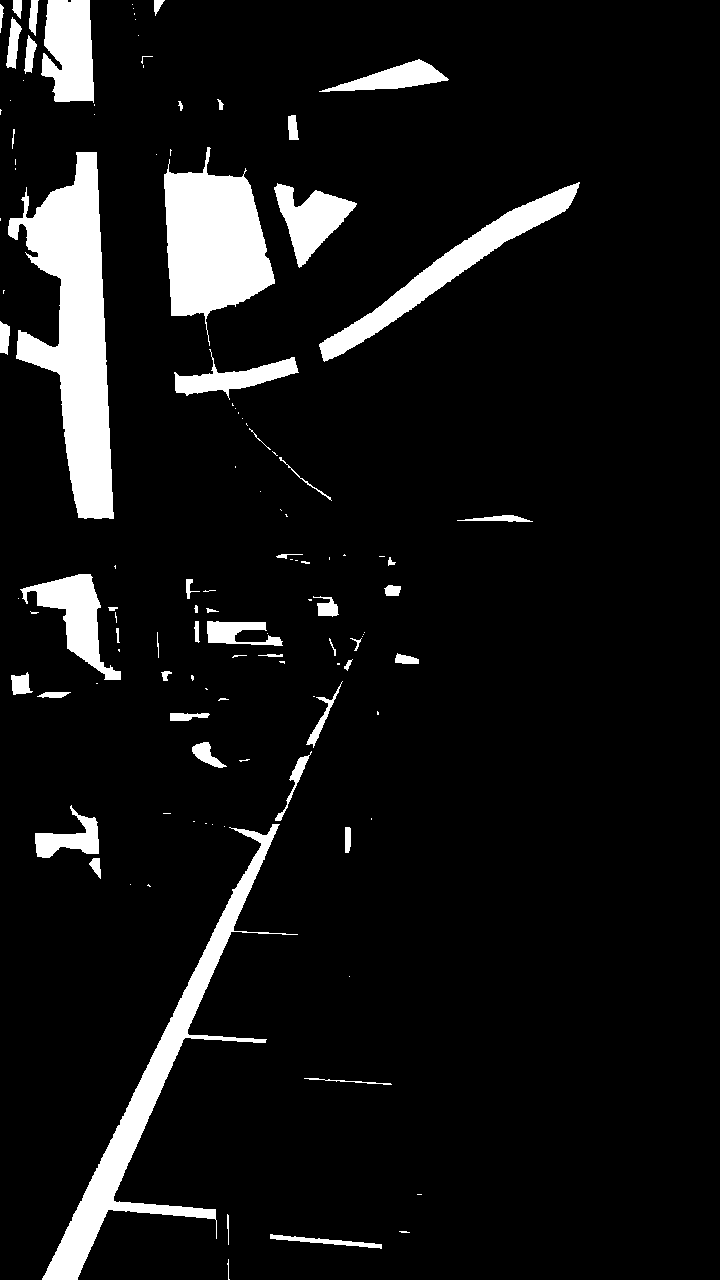
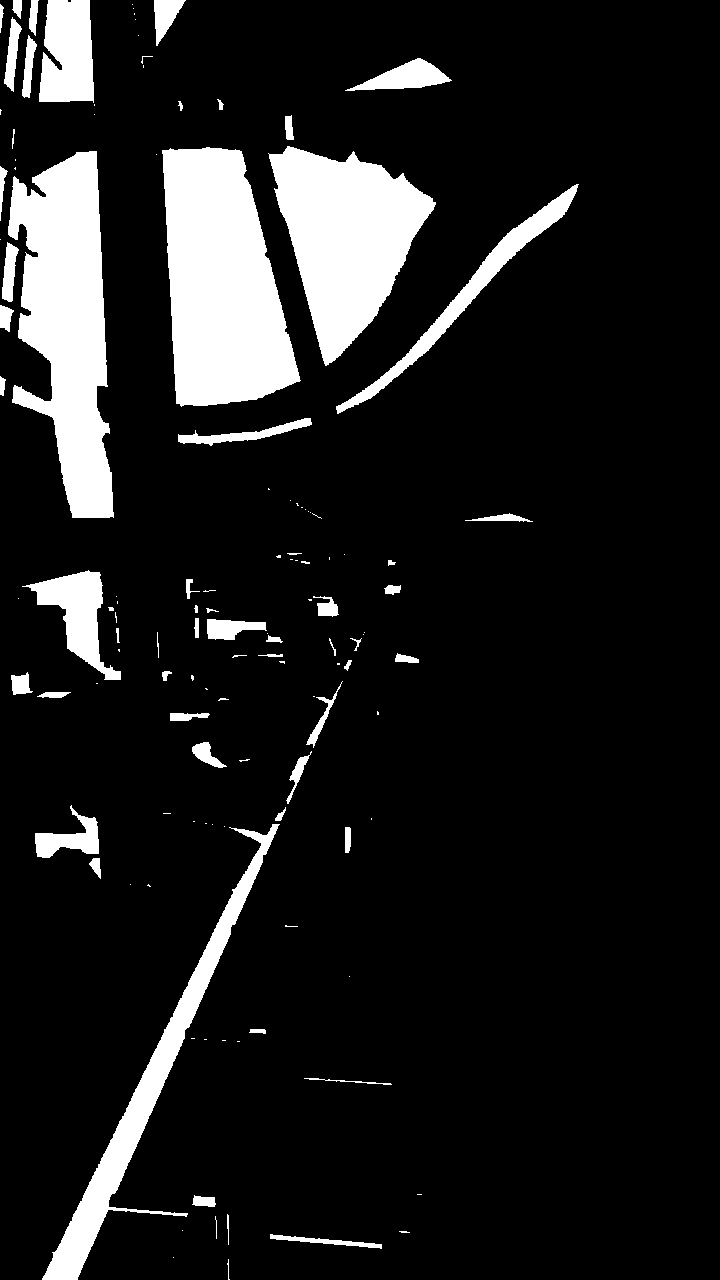
Film 19: style board v4 ship
Claude-Session: https://claude.ai/code/session_017iwyCuVqr4pVQferrZ24jv

diff --git a/film/v3/set3d19/styleboard/sb.py b/film/v3/set3d19/styleboard/sb.py
@@ -525,10 +525,10 @@ def ship_mats():
     M['deck1'] = mat('deck1', '#b48a50', '#a07a40', scale=3, aniso=(0.12, 1, 1), contrast=1.4)
     M['deck2'] = mat('deck2', '#a67c44', '#bc9255', scale=3, aniso=(0.12, 1, 1), contrast=1.4)
     M['seam'] = mat('seam', '#2c1c20')
-    M['hullb'] = mat('hullb', '#221e26', '#2e2830', scale=2, aniso=(0.3, 0.3, 1))
+    M['hullb'] = mat('hullb', '#2a2622', '#36302a', scale=2, aniso=(0.3, 0.3, 1))
     M['ochre'] = mat('ochre', '#cf9230', '#bd7f26', scale=3)
     M['bulw'] = mat('bulw', '#a24c2c', '#8f3f28', scale=3, aniso=(0.2, 1, 1))
-    M['cap'] = mat('cap', '#241e22', '#322a2c', scale=3)
+    M['cap'] = mat('cap', '#2a2622', '#3a342c', scale=3)
     M['iron'] = mat('iron', '#2a2622', '#38322c', scale=6, rough=0.6)
     M['carr'] = mat('carr', '#8a3e28', '#9c4a30', scale=4, aniso=(0.2, 1, 1))
     M['oak'] = mat('oak', '#8a5a2c', '#9e6a34', scale=5, aniso=(0.15, 1, 1))
@@ -633,7 +633,9 @@ def build_ship(P):
         y = Y0
         while y < 29.5:
             yc = y + 0.35; b = hw(yc); dy = hw(yc + 0.35) - hw(yc - 0.35)
-            if b > 0.2: mb.box(M['cap'], (s * (b - 0.02), yc, DECK + 1.14), (0.3, 0.74, 0.1), rz=math.atan2(-dy * s, 0.7))
+            if b > 0.2:
+                mb.box(M['cap'], (s * (b - 0.02), yc, DECK + 1.14), (0.3, 0.74, 0.1), rz=math.atan2(-dy * s, 0.7)); mb.box(M['cap'], (s * (b + 0.1), yc, DECK + 1.2), (0.06, 0.74, 0.06), rz=math.atan2(-dy * s, 0.7))
+                mb.box(M['seam'], (s * (b - 0.02), yc + 0.36, DECK + 1.195), (0.31, 0.02, 0.012), rz=math.atan2(-dy * s, 0.7))
             y += 0.7
     # ---- cannons (black iron on red-brown carriages), muzzles through the ports
     def cannon(side, y):
@@ -681,25 +683,29 @@ def build_ship(P):
                 b = Vector((s * (hw(my + 1.5) - 0.1) * (1 - t) + (mx + s * 0.4) * t, my + 1.5 - 0.6 * t, DECK + 1.15 + (top - DECK - 1.15) * t))
                 mb.rod(M['rig'], a, b, 0.028, 0.028, 4)
     mast(8.0, 40.0, [(14.4, 14.0, 0.17), (24.6, 10.4, 0.14), (31.4, 7.2, 0.1)],
-         [(-6.5, 6.5, 8.6, 14.2, 0.7, 1.7), (-4.7, 4.7, 15.0, 24.2, 0.8, 1.4), (-3.3, 3.3, 25.0, 31.0, 0.9, 1.0)])
+         [(-6.5, 6.5, 8.6, 14.2, 0.7, 2.5), (-4.7, 4.7, 15.0, 24.2, 0.8, 2.0), (-3.3, 3.3, 25.0, 31.0, 0.9, 1.5)])
     mast(28.0, 34.0, [(13.6, 12.0, 0.15), (21.4, 9.0, 0.12), (27.0, 6.2, 0.09)],
-         [(-5.6, 5.6, 8.6, 13.4, 0.7, 1.5), (-4.1, 4.1, 14.2, 21.0, 0.8, 1.2), (-2.9, 2.9, 21.8, 26.6, 0.9, 0.9)])
+         [(-5.6, 5.6, 8.6, 13.4, 0.7, 2.2), (-4.1, 4.1, 14.2, 21.0, 0.8, 1.8), (-2.9, 2.9, 21.8, 26.6, 0.9, 1.3)])
     tube(mb, M['rig'], (0, 8.0, 40.0), (0, 28.0, 34.0), 0.05, 0.05, 4); tube(mb, M['rig'], (0, 28.0, 34.0), (0, 60.0, 14.2), 0.05, 0.05, 4); tube(mb, M['rig'], (0, 8.0, 31.0), (0, 28.0, 27.0), 0.04, 0.04, 4)
     tube(mb, M['rig'], (0.2, 7.5, 28.0), (0.2, -4.0, DECK + 1.3), 0.05, 0.05, 4)
     tube(mb, M['mast'], (0, 44.0, 9.4), (0, 62.0, 14.5), 0.2, 0.1, 10)
     sail_tri(mb, M, (0, 60.5, 13.6), (0, 51.0, 11.8), (0, 55.5, 22.0), 1.1); sail_tri(mb, M, (0, 55.0, 12.8), (0, 48.6, 11.0), (0, 50.0, 22.0), 1.0)
     mb.quad(M['red'], [(0.0, 8.0, 40.1), (0.0, 8.0, 39.3), (-0.2, 3.5, 39.2), (-0.2, 3.5, 40.0)]); mb.quad(M['red'], [(-0.2, 3.5, 40.0), (-0.2, 3.5, 39.2), (0.0, 8.0, 39.3), (0.0, 8.0, 40.1)])
     mb.finish()
-    # ---- bow wave: curling white sheets + spray at the stem, wash along the outboard hull
+    # ---- bow wave: a curling white roll pushed away from the stem with a turquoise underside, long thin rolls peeling back along the hull
     sp = MB('spray'); rr2 = rnd(8)
+    tq = mat('turq', '#2fa9a4', '#46bdb0', scale=2)
     for side in (-1, 1):
-        for k in range(26):
-            yy = STEM - 0.2 - k * 0.7; b = hw(yy) + 0.95 + 0.25 * k ** 0.5
-            hgt = max(0.12, 0.85 - 0.032 * k); sp.ell(M['spray'], (side * (b + rr2.uniform(-0.1, 0.1)), yy, 0.1 + hgt * 0.5), (0.45 + 0.012 * k, 0.55 + 0.02 * k, hgt), (10, 6))
-    for k in range(34):
-        a = rr2.uniform(0, 6.28); r_ = rr2.uniform(0, 1.8)
-        sp.ell(M['spray'], (rr2.uniform(-1.4, 1.4), STEM + 0.6 + r_ * 0.8, rr2.uniform(0.3, 1.8)), (0.11, 0.11, 0.13), (6, 4))
-    sp.ell(M['spray'], (0, STEM + 0.4, 0.5), (1.1, 1.3, 0.7), (12, 8)); sp.finish(shadow=False)
+        for k in range(22):
+            yy = STEM - 0.3 - k * 0.75; b = hw(yy) + 1.0 + 0.22 * k ** 0.6
+            hgt = max(0.18, 1.7 - 0.07 * k); yaw = -side * math.atan2(hw(yy + 0.4) - hw(yy - 0.4), 0.8) * -1.0
+            sp.ell(tq, (side * (b + 0.35 + 0.02 * k), yy, 0.15 + hgt * 0.22), (0.5 + 0.02 * k, 0.8, hgt * 0.42), (12, 6), rot=(0, 0, yaw))           # turquoise underside / face
+            sp.ell(M['spray'], (side * (b - 0.05), yy, 0.2 + hgt * 0.62), (0.42 + 0.015 * k, 0.78, hgt * 0.4), (12, 6), rot=(0, 0, yaw))                # white curling roll on top
+            if k % 2 == 0: sp.ell(M['spray'], (side * (b - 0.35), yy + 0.2, 0.25 + hgt * 0.95), (0.3, 0.5, hgt * 0.22), (10, 6), rot=(0, 0, yaw))       # the lip
+    for k in range(9):                                                                  # crescent of white across the stem
+        a = math.pi * (k / 8.0); sp.ell(M['spray'], (1.7 * math.cos(a), STEM + 0.6 + 1.2 * math.sin(a), 0.5 + 0.5 * math.sin(a)), (0.6, 0.6, 0.55 + 0.35 * math.sin(a)), (10, 6))
+    for k in range(30): sp.ell(M['spray'], (rr2.uniform(-1.6, 1.6), STEM + 0.8 + rr2.uniform(0, 2.0), rr2.uniform(0.7, 2.4)), (0.12, 0.12, 0.14), (6, 4))
+    sp.finish(shadow=False)
     # ---- far dressing
     ib = MB('isle'); n = 48; X0i = 780
     for i in range(n):
@@ -741,13 +747,18 @@ def build_sea(P):
     h *= np.clip(1 - t / 3500.0, 0, 1) ** 0.5
     # foam attribute: wash along the outboard hull, bow foam (broken up by the shader noise)
     hh_ = hw(np.clip(py, -12, STEM)); d_hull = np.abs(px) - (hh_ + 0.95); d_hull = np.where((py > -12) & (py < STEM + 1), d_hull, 9)
-    along = np.clip((py + 12.0) / 58.0, 0, 1)
-    wash = np.exp(-np.maximum(d_hull, 0) / 1.3) * (d_hull < 4.5) * (0.35 + 0.65 * along)
-    dback = np.maximum(STEM - py, 0.0); arm = np.zeros_like(px)
-    for off in (2.0, 4.4, 7.0):
-        dd = np.abs(np.abs(px) - (hh_ + 0.95 + off * (0.3 + 0.5 * np.clip(dback / 30.0, 0, 1)))); arm = np.maximum(arm, np.clip(1 - dd / (0.5 + 0.1 * off), 0, 1) * np.clip(1 - dback / (24.0 + 8 * off), 0, 1) * (py < STEM + 4))
-    bow = np.exp(-(((px - 0.0) / 3.2) ** 2 + ((py - (STEM + 2.0)) / 4.2) ** 2))
-    foam = np.nan_to_num(np.clip(np.maximum.reduce([wash * 0.75, arm * 0.55, bow * 0.9]), 0, 1))
+    dh = np.maximum(d_hull, 0.0); dback = np.maximum(STEM - py, 0.0)
+    lace = 0.5 + 0.5 * np.sin(py * 1.7 + 2.3 * np.sin(dh * 2.1 + py * 0.3))
+    inhull = (py > -12) & (py < STEM + 1.0)
+    bands = np.zeros_like(px)
+    for (off, w, amp, flen) in ((0.4, 0.9, 1.0, 80.0), (3.3, 1.0, 0.85, 60.0), (6.6, 1.15, 0.7, 44.0)):
+        wd = w * (0.65 + 0.7 * lace)
+        bnd = np.clip(1 - np.abs(dh - off - 0.3 * np.sin(py * 0.3 + off)) / wd, 0, 1)
+        bnd = bnd * bnd * (3 - 2 * bnd) * amp * np.clip(1.05 - dback / flen, 0, 1)
+        bands = np.maximum(bands, bnd)
+    bands *= inhull
+    bow = np.exp(-(((px - 0.0) / 3.2) ** 2 + ((py - (STEM + 2.0)) / 4.2) ** 2)) * 0.9
+    foam = np.nan_to_num(np.clip(np.maximum(bands * 0.95, bow), 0, 1))
     verts = np.stack([px, py, h], -1).reshape(-1, 3).astype(np.float32)
     idx = np.arange(NU * NV).reshape(NV, NU)
     a_ = idx[:-1, :-1]; b_ = idx[:-1, 1:]; c_ = idx[1:, 1:]; d_ = idx[1:, :-1]
@@ -780,14 +791,16 @@ def build_sea(P):
     wc = N('ShaderNodeMath'); wc.operation = 'MULTIPLY'; wc.use_clamp = True; L(cr.outputs['Result'], wc.inputs[0]); L(sp2.outputs['Result'], wc.inputs[1])
     col = mixc(col, hexc('#e4eeec'), wc.outputs[0])
     fa = N('ShaderNodeAttribute'); fa.attribute_type = 'GEOMETRY'; fa.attribute_name = 'foam'
-    nz2 = N('ShaderNodeTexNoise'); nz2.inputs['Scale'].default_value = 1.6; nz2.inputs['Detail'].default_value = 1.0; mp2 = N('ShaderNodeMapping'); mp2.inputs['Scale'].default_value = (1.8, 0.22, 1.0); L(tcw.outputs['Object'], mp2.inputs['Vector']); L(mp2.outputs[0], nz2.inputs['Vector'])
-    br = N('ShaderNodeMapRange'); br.inputs['From Min'].default_value = 0.35; br.inputs['From Max'].default_value = 0.7; L(nz2.outputs['Fac'], br.inputs['Value'])
+    nz2 = N('ShaderNodeTexNoise'); nz2.inputs['Scale'].default_value = 1.6; nz2.inputs['Detail'].default_value = 1.0; mp2 = N('ShaderNodeMapping'); mp2.inputs['Scale'].default_value = (2.4, 2.4, 1.0); L(tcw.outputs['Object'], mp2.inputs['Vector']); L(mp2.outputs[0], nz2.inputs['Vector'])
+    br = N('ShaderNodeMapRange'); br.inputs['From Min'].default_value = -2.0; br.inputs['From Max'].default_value = -1.0; L(nz2.outputs['Fac'], br.inputs['Value'])
     fm = N('ShaderNodeMath'); fm.operation = 'MULTIPLY'; fm.use_clamp = True; L(fa.outputs['Fac'], fm.inputs[0]); L(br.outputs['Result'], fm.inputs[1])
-    fm2 = N('ShaderNodeMath'); fm2.operation = 'MULTIPLY'; fm2.use_clamp = True; fm2.inputs[1].default_value = 1.4; L(fm.outputs[0], fm2.inputs[0])
+    fm2 = N('ShaderNodeMath'); fm2.operation = 'MULTIPLY'; fm2.use_clamp = True; fm2.inputs[1].default_value = 1.25; L(fm.outputs[0], fm2.inputs[0])
     col = mixc(col, hexc('#f0f6f2'), fm2.outputs[0])
     L(col, bs.inputs['Base Color'])
     lw = N('ShaderNodeLayerWeight'); lw.inputs['Blend'].default_value = 0.3
-    em = N('ShaderNodeMath'); em.operation = 'MULTIPLY'; em.inputs[1].default_value = P.get('fresnel_k', 0.7); L(lw.outputs['Fresnel'], em.inputs[0])
+    mrn = N('ShaderNodeMapRange'); mrn.inputs['From Min'].default_value = 20.0; mrn.inputs['From Max'].default_value = 120.0; mrn.inputs['To Min'].default_value = 0.12; mrn.inputs['To Max'].default_value = 1.0; L(cd.outputs['View Distance'], mrn.inputs['Value'])
+    fk = N('ShaderNodeMath'); fk.operation = 'MULTIPLY'; fk.inputs[1].default_value = P.get('fresnel_k', 0.7); L(mrn.outputs['Result'], fk.inputs[0])
+    em = N('ShaderNodeMath'); em.operation = 'MULTIPLY'; L(lw.outputs['Fresnel'], em.inputs[0]); L(fk.outputs[0], em.inputs[1])
     bs.inputs['Emission Color'].default_value = hexc('#9fc2d8'); L(em.outputs[0], bs.inputs['Emission Strength'])
     nzb = N('ShaderNodeTexNoise'); nzb.inputs['Scale'].default_value = 1.8; nzb.inputs['Detail'].default_value = 0.0; L(tcw.outputs['Object'], nzb.inputs['Vector'])
     bp = N('ShaderNodeBump'); bp.inputs['Strength'].default_value = 0.2; bp.inputs['Distance'].default_value = 0.2; L(nzb.outputs['Fac'], bp.inputs['Height']); L(bp.outputs['Normal'], bs.inputs['Normal'])
@@ -799,10 +812,10 @@ def build_sea(P):
     o.visible_diffuse = False; o.light_linking.receiver_collection = coll
 
 PRESETS['ship'] = dict(
-    sky=[(0.0, '#6c9ce0'), (0.46, '#a9c6e6'), (0.5, '#9dbfe6'), (0.58, '#7ea8e2'), (0.78, '#5b88d6'), (1.0, '#4a78cd')], sky_k=1.0,
+    sky=[(0.0, '#6c9ce0'), (0.46, '#a9c6e6'), (0.5, '#a4c4e6'), (0.58, '#7ea8e2'), (0.78, '#4f7ed0'), (1.0, '#3a64be')], sky_k=1.0,
     key=(1.0, 0.92, 0.78, 6.5), key_dir=kdir(140, 48), sun_angle=0.9, exposure=0.1, sat=1.08, amb=('#3050FF', 1.7), samples=80, dbounce=1, gloss=2,
     cloud=('#ffffff', '#8c9ce8'), cloud_diffuse=True, cloud_z=(70, 170), ncloud=8, cloud_seed=4, cloud_scale=0.8,
-    sea_near='#16707c', sea_far='#0a2c4c', fresnel_k=0.7,
+    sea_near='#115f6e', sea_far='#0a2c4c', fresnel_k=0.7,
     glit_az=6, glit_el=11, glit_k=30.0,
     cam=dict(loc=(4.4, -4.0, 9.2), look=(4.4 - 3.6, -4.0 + 39.8, 9.2 - 7.9), lens=22))
 

diff --git a/film/v3/set3d19/styleboard/part_ship.py b/film/v3/set3d19/styleboard/part_ship.py
@@ -12,10 +12,10 @@ def ship_mats():
     M['deck1'] = mat('deck1', '#b48a50', '#a07a40', scale=3, aniso=(0.12, 1, 1), contrast=1.4)
     M['deck2'] = mat('deck2', '#a67c44', '#bc9255', scale=3, aniso=(0.12, 1, 1), contrast=1.4)
     M['seam'] = mat('seam', '#2c1c20')
-    M['hullb'] = mat('hullb', '#221e26', '#2e2830', scale=2, aniso=(0.3, 0.3, 1))
+    M['hullb'] = mat('hullb', '#2a2622', '#36302a', scale=2, aniso=(0.3, 0.3, 1))
     M['ochre'] = mat('ochre', '#cf9230', '#bd7f26', scale=3)
     M['bulw'] = mat('bulw', '#a24c2c', '#8f3f28', scale=3, aniso=(0.2, 1, 1))
-    M['cap'] = mat('cap', '#241e22', '#322a2c', scale=3)
+    M['cap'] = mat('cap', '#2a2622', '#3a342c', scale=3)
     M['iron'] = mat('iron', '#2a2622', '#38322c', scale=6, rough=0.6)
     M['carr'] = mat('carr', '#8a3e28', '#9c4a30', scale=4, aniso=(0.2, 1, 1))
     M['oak'] = mat('oak', '#8a5a2c', '#9e6a34', scale=5, aniso=(0.15, 1, 1))
@@ -120,7 +120,9 @@ def build_ship(P):
         y = Y0
         while y < 29.5:
             yc = y + 0.35; b = hw(yc); dy = hw(yc + 0.35) - hw(yc - 0.35)
-            if b > 0.2: mb.box(M['cap'], (s * (b - 0.02), yc, DECK + 1.14), (0.3, 0.74, 0.1), rz=math.atan2(-dy * s, 0.7))
+            if b > 0.2:
+                mb.box(M['cap'], (s * (b - 0.02), yc, DECK + 1.14), (0.3, 0.74, 0.1), rz=math.atan2(-dy * s, 0.7)); mb.box(M['cap'], (s * (b + 0.1), yc, DECK + 1.2), (0.06, 0.74, 0.06), rz=math.atan2(-dy * s, 0.7))
+                mb.box(M['seam'], (s * (b - 0.02), yc + 0.36, DECK + 1.195), (0.31, 0.02, 0.012), rz=math.atan2(-dy * s, 0.7))
             y += 0.7
     # ---- cannons (black iron on red-brown carriages), muzzles through the ports
     def cannon(side, y):
@@ -168,25 +170,29 @@ def build_ship(P):
                 b = Vector((s * (hw(my + 1.5) - 0.1) * (1 - t) + (mx + s * 0.4) * t, my + 1.5 - 0.6 * t, DECK + 1.15 + (top - DECK - 1.15) * t))
                 mb.rod(M['rig'], a, b, 0.028, 0.028, 4)
     mast(8.0, 40.0, [(14.4, 14.0, 0.17), (24.6, 10.4, 0.14), (31.4, 7.2, 0.1)],
-         [(-6.5, 6.5, 8.6, 14.2, 0.7, 1.7), (-4.7, 4.7, 15.0, 24.2, 0.8, 1.4), (-3.3, 3.3, 25.0, 31.0, 0.9, 1.0)])
+         [(-6.5, 6.5, 8.6, 14.2, 0.7, 2.5), (-4.7, 4.7, 15.0, 24.2, 0.8, 2.0), (-3.3, 3.3, 25.0, 31.0, 0.9, 1.5)])
     mast(28.0, 34.0, [(13.6, 12.0, 0.15), (21.4, 9.0, 0.12), (27.0, 6.2, 0.09)],
-         [(-5.6, 5.6, 8.6, 13.4, 0.7, 1.5), (-4.1, 4.1, 14.2, 21.0, 0.8, 1.2), (-2.9, 2.9, 21.8, 26.6, 0.9, 0.9)])
+         [(-5.6, 5.6, 8.6, 13.4, 0.7, 2.2), (-4.1, 4.1, 14.2, 21.0, 0.8, 1.8), (-2.9, 2.9, 21.8, 26.6, 0.9, 1.3)])
     tube(mb, M['rig'], (0, 8.0, 40.0), (0, 28.0, 34.0), 0.05, 0.05, 4); tube(mb, M['rig'], (0, 28.0, 34.0), (0, 60.0, 14.2), 0.05, 0.05, 4); tube(mb, M['rig'], (0, 8.0, 31.0), (0, 28.0, 27.0), 0.04, 0.04, 4)
     tube(mb, M['rig'], (0.2, 7.5, 28.0), (0.2, -4.0, DECK + 1.3), 0.05, 0.05, 4)
     tube(mb, M['mast'], (0, 44.0, 9.4), (0, 62.0, 14.5), 0.2, 0.1, 10)
     sail_tri(mb, M, (0, 60.5, 13.6), (0, 51.0, 11.8), (0, 55.5, 22.0), 1.1); sail_tri(mb, M, (0, 55.0, 12.8), (0, 48.6, 11.0), (0, 50.0, 22.0), 1.0)
     mb.quad(M['red'], [(0.0, 8.0, 40.1), (0.0, 8.0, 39.3), (-0.2, 3.5, 39.2), (-0.2, 3.5, 40.0)]); mb.quad(M['red'], [(-0.2, 3.5, 40.0), (-0.2, 3.5, 39.2), (0.0, 8.0, 39.3), (0.0, 8.0, 40.1)])
     mb.finish()
-    # ---- bow wave: curling white sheets + spray at the stem, wash along the outboard hull
+    # ---- bow wave: a curling white roll pushed away from the stem with a turquoise underside, long thin rolls peeling back along the hull
     sp = MB('spray'); rr2 = rnd(8)
+    tq = mat('turq', '#2fa9a4', '#46bdb0', scale=2)
     for side in (-1, 1):
-        for k in range(26):
-            yy = STEM - 0.2 - k * 0.7; b = hw(yy) + 0.95 + 0.25 * k ** 0.5
-            hgt = max(0.12, 0.85 - 0.032 * k); sp.ell(M['spray'], (side * (b + rr2.uniform(-0.1, 0.1)), yy, 0.1 + hgt * 0.5), (0.45 + 0.012 * k, 0.55 + 0.02 * k, hgt), (10, 6))
-    for k in range(34):
-        a = rr2.uniform(0, 6.28); r_ = rr2.uniform(0, 1.8)
-        sp.ell(M['spray'], (rr2.uniform(-1.4, 1.4), STEM + 0.6 + r_ * 0.8, rr2.uniform(0.3, 1.8)), (0.11, 0.11, 0.13), (6, 4))
-    sp.ell(M['spray'], (0, STEM + 0.4, 0.5), (1.1, 1.3, 0.7), (12, 8)); sp.finish(shadow=False)
+        for k in range(22):
+            yy = STEM - 0.3 - k * 0.75; b = hw(yy) + 1.0 + 0.22 * k ** 0.6
+            hgt = max(0.18, 1.7 - 0.07 * k); yaw = -side * math.atan2(hw(yy + 0.4) - hw(yy - 0.4), 0.8) * -1.0
+            sp.ell(tq, (side * (b + 0.35 + 0.02 * k), yy, 0.15 + hgt * 0.22), (0.5 + 0.02 * k, 0.8, hgt * 0.42), (12, 6), rot=(0, 0, yaw))           # turquoise underside / face
+            sp.ell(M['spray'], (side * (b - 0.05), yy, 0.2 + hgt * 0.62), (0.42 + 0.015 * k, 0.78, hgt * 0.4), (12, 6), rot=(0, 0, yaw))                # white curling roll on top
+            if k % 2 == 0: sp.ell(M['spray'], (side * (b - 0.35), yy + 0.2, 0.25 + hgt * 0.95), (0.3, 0.5, hgt * 0.22), (10, 6), rot=(0, 0, yaw))       # the lip
+    for k in range(9):                                                                  # crescent of white across the stem
+        a = math.pi * (k / 8.0); sp.ell(M['spray'], (1.7 * math.cos(a), STEM + 0.6 + 1.2 * math.sin(a), 0.5 + 0.5 * math.sin(a)), (0.6, 0.6, 0.55 + 0.35 * math.sin(a)), (10, 6))
+    for k in range(30): sp.ell(M['spray'], (rr2.uniform(-1.6, 1.6), STEM + 0.8 + rr2.uniform(0, 2.0), rr2.uniform(0.7, 2.4)), (0.12, 0.12, 0.14), (6, 4))
+    sp.finish(shadow=False)
     # ---- far dressing
     ib = MB('isle'); n = 48; X0i = 780
     for i in range(n):
@@ -228,13 +234,18 @@ def build_sea(P):
     h *= np.clip(1 - t / 3500.0, 0, 1) ** 0.5
     # foam attribute: wash along the outboard hull, bow foam (broken up by the shader noise)
     hh_ = hw(np.clip(py, -12, STEM)); d_hull = np.abs(px) - (hh_ + 0.95); d_hull = np.where((py > -12) & (py < STEM + 1), d_hull, 9)
-    along = np.clip((py + 12.0) / 58.0, 0, 1)
-    wash = np.exp(-np.maximum(d_hull, 0) / 1.3) * (d_hull < 4.5) * (0.35 + 0.65 * along)
-    dback = np.maximum(STEM - py, 0.0); arm = np.zeros_like(px)
-    for off in (2.0, 4.4, 7.0):
-        dd = np.abs(np.abs(px) - (hh_ + 0.95 + off * (0.3 + 0.5 * np.clip(dback / 30.0, 0, 1)))); arm = np.maximum(arm, np.clip(1 - dd / (0.5 + 0.1 * off), 0, 1) * np.clip(1 - dback / (24.0 + 8 * off), 0, 1) * (py < STEM + 4))
-    bow = np.exp(-(((px - 0.0) / 3.2) ** 2 + ((py - (STEM + 2.0)) / 4.2) ** 2))
-    foam = np.nan_to_num(np.clip(np.maximum.reduce([wash * 0.75, arm * 0.55, bow * 0.9]), 0, 1))
+    dh = np.maximum(d_hull, 0.0); dback = np.maximum(STEM - py, 0.0)
+    lace = 0.5 + 0.5 * np.sin(py * 1.7 + 2.3 * np.sin(dh * 2.1 + py * 0.3))
+    inhull = (py > -12) & (py < STEM + 1.0)
+    bands = np.zeros_like(px)
+    for (off, w, amp, flen) in ((0.4, 0.9, 1.0, 80.0), (3.3, 1.0, 0.85, 60.0), (6.6, 1.15, 0.7, 44.0)):
+        wd = w * (0.65 + 0.7 * lace)
+        bnd = np.clip(1 - np.abs(dh - off - 0.3 * np.sin(py * 0.3 + off)) / wd, 0, 1)
+        bnd = bnd * bnd * (3 - 2 * bnd) * amp * np.clip(1.05 - dback / flen, 0, 1)
+        bands = np.maximum(bands, bnd)
+    bands *= inhull
+    bow = np.exp(-(((px - 0.0) / 3.2) ** 2 + ((py - (STEM + 2.0)) / 4.2) ** 2)) * 0.9
+    foam = np.nan_to_num(np.clip(np.maximum(bands * 0.95, bow), 0, 1))
     verts = np.stack([px, py, h], -1).reshape(-1, 3).astype(np.float32)
     idx = np.arange(NU * NV).reshape(NV, NU)
     a_ = idx[:-1, :-1]; b_ = idx[:-1, 1:]; c_ = idx[1:, 1:]; d_ = idx[1:, :-1]
@@ -267,14 +278,16 @@ def build_sea(P):
     wc = N('ShaderNodeMath'); wc.operation = 'MULTIPLY'; wc.use_clamp = True; L(cr.outputs['Result'], wc.inputs[0]); L(sp2.outputs['Result'], wc.inputs[1])
     col = mixc(col, hexc('#e4eeec'), wc.outputs[0])
     fa = N('ShaderNodeAttribute'); fa.attribute_type = 'GEOMETRY'; fa.attribute_name = 'foam'
-    nz2 = N('ShaderNodeTexNoise'); nz2.inputs['Scale'].default_value = 1.6; nz2.inputs['Detail'].default_value = 1.0; mp2 = N('ShaderNodeMapping'); mp2.inputs['Scale'].default_value = (1.8, 0.22, 1.0); L(tcw.outputs['Object'], mp2.inputs['Vector']); L(mp2.outputs[0], nz2.inputs['Vector'])
-    br = N('ShaderNodeMapRange'); br.inputs['From Min'].default_value = 0.35; br.inputs['From Max'].default_value = 0.7; L(nz2.outputs['Fac'], br.inputs['Value'])
+    nz2 = N('ShaderNodeTexNoise'); nz2.inputs['Scale'].default_value = 1.6; nz2.inputs['Detail'].default_value = 1.0; mp2 = N('ShaderNodeMapping'); mp2.inputs['Scale'].default_value = (2.4, 2.4, 1.0); L(tcw.outputs['Object'], mp2.inputs['Vector']); L(mp2.outputs[0], nz2.inputs['Vector'])
+    br = N('ShaderNodeMapRange'); br.inputs['From Min'].default_value = -2.0; br.inputs['From Max'].default_value = -1.0; L(nz2.outputs['Fac'], br.inputs['Value'])
     fm = N('ShaderNodeMath'); fm.operation = 'MULTIPLY'; fm.use_clamp = True; L(fa.outputs['Fac'], fm.inputs[0]); L(br.outputs['Result'], fm.inputs[1])
-    fm2 = N('ShaderNodeMath'); fm2.operation = 'MULTIPLY'; fm2.use_clamp = True; fm2.inputs[1].default_value = 1.4; L(fm.outputs[0], fm2.inputs[0])
+    fm2 = N('ShaderNodeMath'); fm2.operation = 'MULTIPLY'; fm2.use_clamp = True; fm2.inputs[1].default_value = 1.25; L(fm.outputs[0], fm2.inputs[0])
     col = mixc(col, hexc('#f0f6f2'), fm2.outputs[0])
     L(col, bs.inputs['Base Color'])
     lw = N('ShaderNodeLayerWeight'); lw.inputs['Blend'].default_value = 0.3
-    em = N('ShaderNodeMath'); em.operation = 'MULTIPLY'; em.inputs[1].default_value = P.get('fresnel_k', 0.7); L(lw.outputs['Fresnel'], em.inputs[0])
+    mrn = N('ShaderNodeMapRange'); mrn.inputs['From Min'].default_value = 20.0; mrn.inputs['From Max'].default_value = 120.0; mrn.inputs['To Min'].default_value = 0.12; mrn.inputs['To Max'].default_value = 1.0; L(cd.outputs['View Distance'], mrn.inputs['Value'])
+    fk = N('ShaderNodeMath'); fk.operation = 'MULTIPLY'; fk.inputs[1].default_value = P.get('fresnel_k', 0.7); L(mrn.outputs['Result'], fk.inputs[0])
+    em = N('ShaderNodeMath'); em.operation = 'MULTIPLY'; L(lw.outputs['Fresnel'], em.inputs[0]); L(fk.outputs[0], em.inputs[1])
     bs.inputs['Emission Color'].default_value = hexc('#9fc2d8'); L(em.outputs[0], bs.inputs['Emission Strength'])
     nzb = N('ShaderNodeTexNoise'); nzb.inputs['Scale'].default_value = 1.8; nzb.inputs['Detail'].default_value = 0.0; L(tcw.outputs['Object'], nzb.inputs['Vector'])
     bp = N('ShaderNodeBump'); bp.inputs['Strength'].default_value = 0.2; bp.inputs['Distance'].default_value = 0.2; L(nzb.outputs['Fac'], bp.inputs['Height']); L(bp.outputs['Normal'], bs.inputs['Normal'])
@@ -286,10 +299,10 @@ def build_sea(P):
     o.visible_diffuse = False; o.light_linking.receiver_collection = coll
 
 PRESETS['ship'] = dict(
-    sky=[(0.0, '#6c9ce0'), (0.46, '#a9c6e6'), (0.5, '#9dbfe6'), (0.58, '#7ea8e2'), (0.78, '#5b88d6'), (1.0, '#4a78cd')], sky_k=1.0,
+    sky=[(0.0, '#6c9ce0'), (0.46, '#a9c6e6'), (0.5, '#a4c4e6'), (0.58, '#7ea8e2'), (0.78, '#4f7ed0'), (1.0, '#3a64be')], sky_k=1.0,
     key=(1.0, 0.92, 0.78, 6.5), key_dir=kdir(140, 48), sun_angle=0.9, exposure=0.1, sat=1.08, amb=('#3050FF', 1.7), samples=80, dbounce=1, gloss=2,
     cloud=('#ffffff', '#8c9ce8'), cloud_diffuse=True, cloud_z=(70, 170), ncloud=8, cloud_seed=4, cloud_scale=0.8,
-    sea_near='#16707c', sea_far='#0a2c4c', fresnel_k=0.7,
+    sea_near='#115f6e', sea_far='#0a2c4c', fresnel_k=0.7,
     glit_az=6, glit_el=11, glit_k=30.0,
     cam=dict(loc=(4.4, -4.0, 9.2), look=(4.4 - 3.6, -4.0 + 39.8, 9.2 - 7.9), lens=22))
 

diff --git a/film/v3/set3d19/styleboard/README.md b/film/v3/set3d19/styleboard/README.md
@@ -32,3 +32,10 @@ Render times v3: ship 113 s, workshop 133 s, hall 135 s. Hue v3 (cast-shadow mea
 - SHIP rebuilt: camera on the main deck side, just outboard of the starboard rail (4.4 m from the centre line, 3 m above the deck), looking forward along the ship, 5 degrees off the line. Visible: black hull with ochre wale and gun ports on the outboard side, curling white bow wave and spray at the stem, foam wake along the hull, deck, 9 cannons (black iron #2a2622 on red-brown carriages), barrels with plain wooden lids, main mast with shrouds and ratlines, courses/topsails/topgallants with a smooth, strip-seamed canvas (#e6d4a0 lit by the sun from behind-right), foremast behind it, jibs, honey deck planks, white cumulus with blue-violet undersides. Sea uses film 10's technique: smooth graded grid, 3 long swells + short chop that fades with distance, whitecap flecks on crests (height x noise), teal near / deep navy far by view distance, Fresnel pale-sky lift, a sharp glitter lobe from a glossy-only sun light-linked to the sea; world gives glossy rays the painted sky (not the flat ambient).
 - WORKSHOP: floor-only cool fill removed; floor planks honey/brown (#9a7040 / #86602f ...); warm practicals and a warm room light light everything; blue-violet only from the sky ambient (small) in shaded areas; sun az -46 / el 19, shaft more visible, sun reaches the H1 and the bench; the chest is smaller (0.65) and at the left frame edge.
 - HALL: carpet field desaturated (greyer navy), wall map enlarged (1.1 x 1.45 m) with lines, dots and landmass blobs.
+
+## v4 (ship near water only; workshop and hall unchanged)
+Ship render 113 s. Hue: ship 265.3 / 262.6 / magenta 1.6 % (mean just over the band edge).
+- Near water: near colour #115f6e (deep teal), Fresnel sky lift faded in with view distance (12 % at 20 m, 100 % at 120 m) so the cyan only lifts in the distance; far sea and glitter untouched.
+- Wake: the stretched-noise streaks were replaced by 3 foam bands that follow the hull waterline (offsets 0.4 / 3.3 / 6.6 m), soft-edged with a lacy edge from a sine lace term, calm water between them; no shader noise on the foam.
+- Bow wave: white curling rolls (turquoise face underneath, small lip blobs) peeling back along both sides of the hull from the stem, a white crescent across the stem and spray flecks.
+- Non-blocking: bulwark and cap rail in warmer black #2a2622 with a second thin rail and plank-seam ticks, sails billow about 1.5x more, sky top deepened (#3a64be) with the horizon unchanged.
